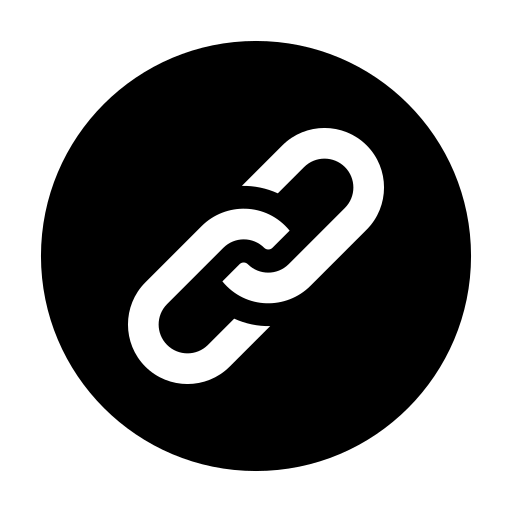
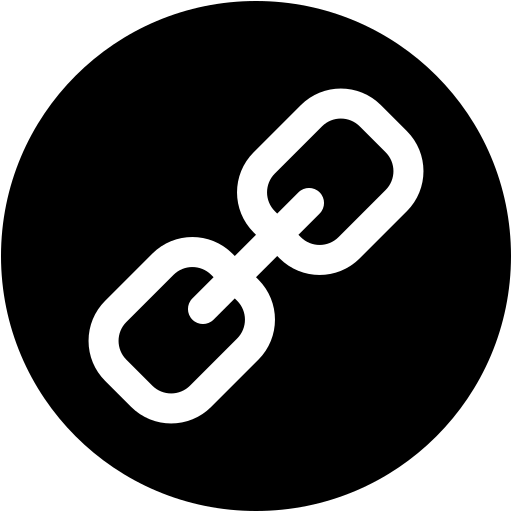
correcciones habilidades en cards proyectos

diff --git a/main.css b/main.css
@@ -109,6 +109,7 @@ section{
     transition: box-shadow 0.5s ease;
     height: 400px;
     width: 300px;
+    flex-direction: column;
 }
 
 .proyecto:hover{
@@ -117,38 +118,27 @@ section{
 }
 
 .desc-proyecto-container{
-    flex: 1;
     padding: 0 10px 0 10px;
-}
-
-.imagen-proyecto-container{
-    flex: 2;
+    flex-direction: column;
+    margin-top: 10px;
 }
 
 .img-portada-proyecto-container{
     height: 160px;
     width: 100%;
-    border-radius: 10px;
-}
-
-.habilidades img{
-    height: 15px;
-    width: 15px;
+    border-radius: 8px;
 }
 
 .img-skill-cont{
     display: flex;
-    gap: 10px;
-    margin-left: 30px;
+    gap: 20px;
+    justify-content: center;
+    margin-top: 40px;
 }
 
 .img-skill{
     height: 30px;
     max-width: 400px;
-    display: flex;
-    align-items: center;
-    justify-content: center;
-    gap: 2px;
 }
 
 .desc-skill-cont{
@@ -169,12 +159,18 @@ section{
     justify-content: center;
     align-items: center;
     gap: 10px;
-    margin-top: 50px;
+    margin-top: 20px;
 }
 
 .links-proyecto img{
     width: 30px;
     height: 30px;
+    border-radius: 50%;
+    transition: transform 0.3s ease;
+}
+
+.links-proyecto img:hover{
+    transform: scale(1.2);
 }
 
 .reveal {

diff --git a/index.html b/index.html
@@ -99,13 +99,13 @@
                           <div class="img-skill-cont">
                             <img class="img-skill" src="Imagenes/css-3.png" alt="">
                             <img class="img-skill" src="Imagenes/html-5.png" alt="">
-                            <img class="img-skill" src="Imagenes/icons8-javascript-48.png" alt="">
+                            <img class="img-skill" src="Imagenes/js.png" alt="">
                             <img class="img-skill" src="Imagenes/express.png" alt="">
                             <img class="img-skill" src="Imagenes/nodejs.png" alt="">
                           </div>
                           <div class="links-proyecto">
-                            <a href=""><img src="Imagenes/github.png" alt=""></a>
-                            <a href=""><img src="Imagenes/enlace.png" alt=""></a>
+                            <a href="https://github.com/franciscoserrano-cmd/mi-tienda" target="_blank"><img src="Imagenes/github.png" alt=""></a>
+                            <a href="https://mi-tienda-electronica-s0ag.onrender.com/index.html" target="_blank"><img src="Imagenes/enlace.png" alt=""></a>
                           </div>
                         </div>
                       </div>
@@ -120,11 +120,11 @@
                           <div class="img-skill-cont">
                             <img class="img-skill" src="Imagenes/css-3.png" alt="">
                             <img class="img-skill" src="Imagenes/html-5.png" alt="">
-                            <img class="img-skill" src="Imagenes/icons8-javascript-48.png" alt="">
+                            <img class="img-skill" src="Imagenes/js.png" alt="">
                           </div>
                           <div class="links-proyecto">
-                            <a href=""><img src="Imagenes/github.png" alt=""></a>
-                            <a href=""><img src="Imagenes/enlace.png" alt=""></a>
+                            <a href="https://github.com/franciscoserrano-cmd/enzima" target="_blank"><img src="Imagenes/github.png" alt=""></a>
+                            <a href="https://franciscoserrano-cmd.github.io/enzima/" target="_blank"><img src="Imagenes/enlace.png" alt=""></a>
                           </div>
                         </div>
                       </div>